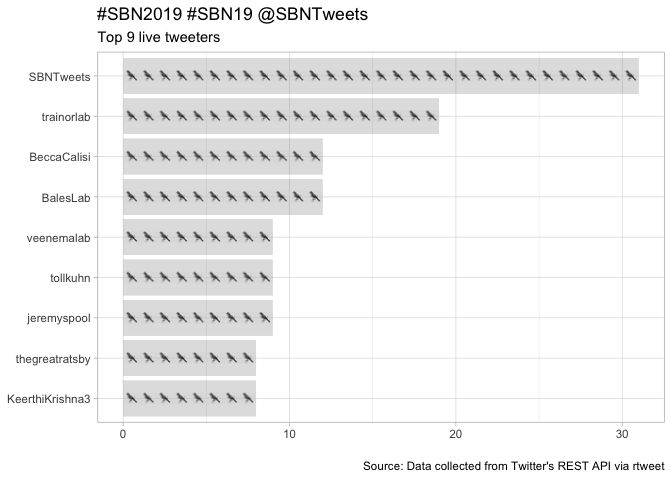
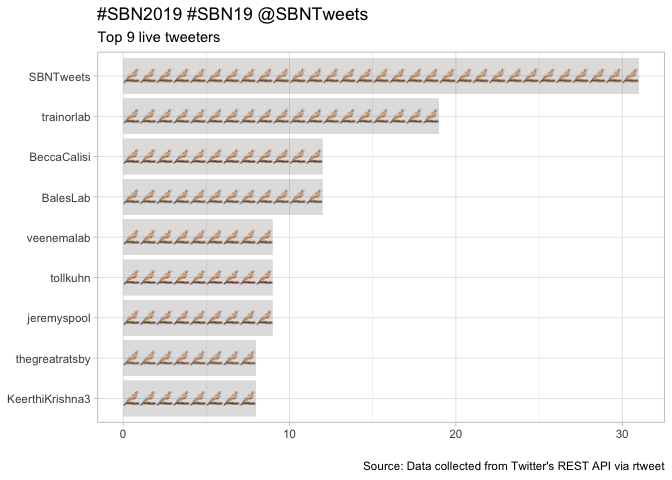
now with transparent and labeled for reuse image

diff --git a/dataviz/rtweets_SBN2019.md b/dataviz/rtweets_SBN2019.md
@@ -3,16 +3,6 @@
 There were a total of **325** tweets with the SBN hashtag. These tweets
 were authored by **111** different particpants.
 
-    ## # A tibble: 6 x 3
-    ##   screen_name    total_tweets image                                        
-    ##   <chr>                 <int> <chr>                                        
-    ## 1 KeerthiKrishn…            8 https://library.kissclipart.com/20180830/jw/…
-    ## 2 thegreatratsby            8 https://library.kissclipart.com/20180830/jw/…
-    ## 3 jeremyspool               9 https://library.kissclipart.com/20180830/jw/…
-    ## 4 tollkuhn                  9 https://library.kissclipart.com/20180830/jw/…
-    ## 5 veenemalab                9 https://library.kissclipart.com/20180830/jw/…
-    ## 6 BalesLab                 12 https://library.kissclipart.com/20180830/jw/…
-
 ![](rtweets_SBN2019_figs/topusers-1.png)
 
 ![](rtweets_SBN2019_figs/tweet_timeline-1.png)
